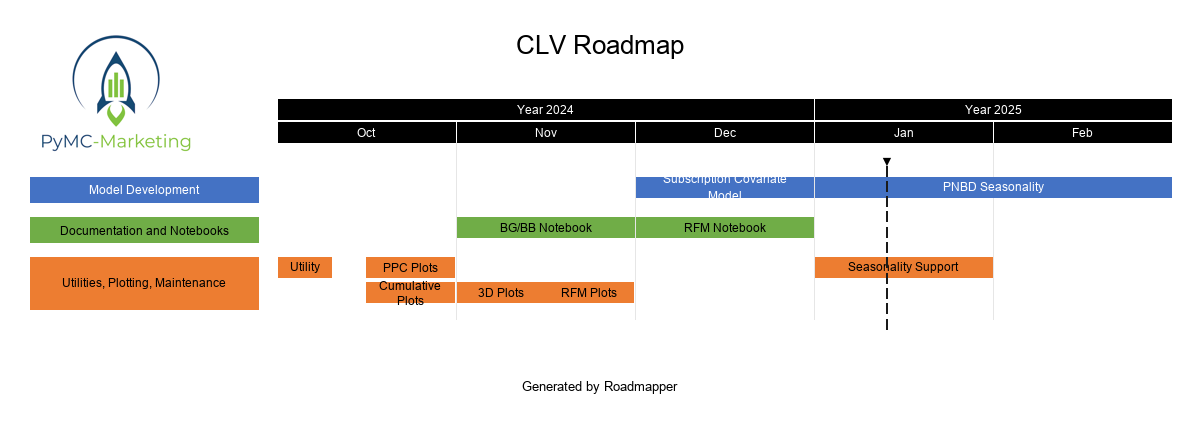
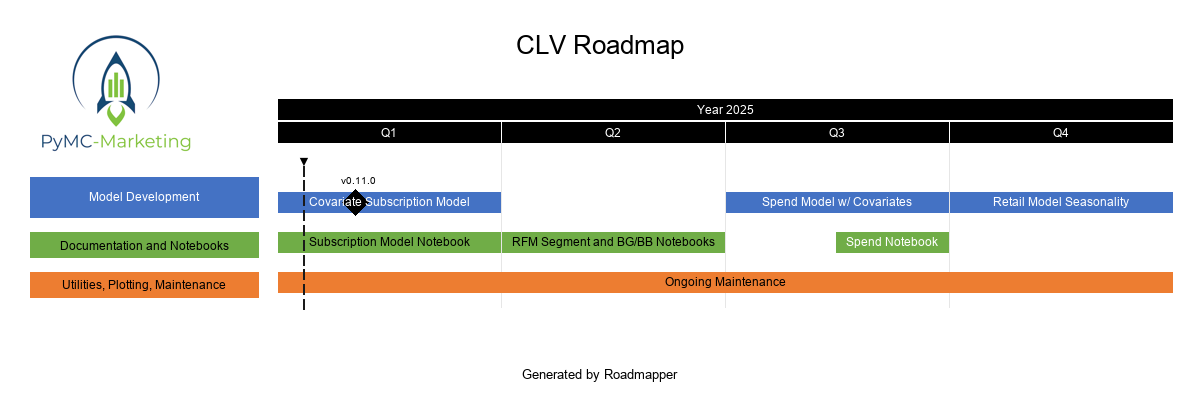
2025 clv roadmap

diff --git a/scripts/clv_roadmap.py b/scripts/clv_roadmap.py
@@ -1,0 +1,118 @@
+from roadmapper.roadmap import Roadmap
+from roadmapper.timelinemode import TimelineMode
+
+# Docs: https://github.com/csgoh/roadmapper
+YEAR = "2025"
+
+# roadmap top-level config
+roadmap = Roadmap(1200, 800)
+roadmap.set_title("CLV Roadmap")
+# roadmap.set_subtitle("FEEDBACK REQUESTED")
+roadmap.set_timeline(TimelineMode.QUARTERLY, start=f"{YEAR}-01-01", number_of_items=4)
+roadmap.add_logo("./docs/source/_static/marketing-logo-light.jpg", "top-left", 172, 125)
+
+doc_color = "#70AD47"  # green
+model_color = "#4472C4"  # navy blue
+util_color = "#ED7D31"  # orange
+
+# Create roadmap swimlanes
+group_model = roadmap.add_group("Model Development", fill_colour=model_color)
+group_doc = roadmap.add_group(
+    "Documentation and Notebooks", fill_colour=doc_color, font_colour="black"
+)
+group_util = roadmap.add_group(
+    "Utilities, Plotting, Maintenance", fill_colour=util_color, font_colour="black"
+)
+
+# add tasks and milestones to modeling swimlane
+tasks_model = group_model.add_task(
+    "Covariate Subscription Model",
+    f"{YEAR}-01-01",
+    f"{YEAR}-03-31",
+    fill_colour=model_color,
+    font_colour="white",
+)
+
+# new release milestones are assigned to specific tasks
+# just add to the task at the top of the roadmap
+tasks_model.add_milestone("v0.11.0", f"{YEAR}-01-31")
+
+tasks_model.add_parallel_task(
+    "Spend Model w/ Covariates",
+    f"{YEAR}-07-01",
+    f"{YEAR}-09-30",
+    fill_colour=model_color,
+    font_colour="white",
+)
+tasks_model.add_parallel_task(
+    "Retail Model Seasonality",
+    f"{YEAR}-10-01",
+    f"{YEAR}-12-31",
+    fill_colour=model_color,
+    font_colour="white",
+)
+
+# add tasks to documentation swimlane
+task_docs = group_doc.add_task(
+    "Subscription Model Notebook",
+    f"{YEAR}-01-01",
+    f"{YEAR}-03-31",
+    fill_colour=doc_color,
+    font_colour="black",
+)
+task_docs.add_parallel_task(
+    "RFM Segment and BG/BB Notebooks",
+    f"{YEAR}-04-01",
+    f"{YEAR}-06-30",
+    fill_colour=doc_color,
+    font_colour="black",
+)
+task_docs.add_parallel_task(
+    "Spend Notebook",
+    f"{YEAR}-08-15",
+    f"{YEAR}-09-30",
+    fill_colour=doc_color,
+    font_colour="white",
+)
+
+# add tasks to utilities swimlane
+task_util = group_util.add_task(
+    "Ongoing Maintenance",
+    f"{YEAR}-01-01",
+    f"{YEAR}-12-31",
+    fill_colour=util_color,
+    font_colour="black",
+)
+
+roadmap.set_footer("Generated by Roadmapper")
+roadmap.draw()
+roadmap.save("./docs/source/_static/clv_roadmap_2025.png")
+
+# this dict is not used to create the roadmap
+# it is just a running list of specific tasks grouped by priority
+task_priority = {
+    "low": [
+        "EG Model",
+        "EG Covar",
+        "sBG Pop",
+        "sBG Covar",
+        "BG PurProb",
+        "BGBB Pred",
+        "logp property",
+        "BG Time Covar",  # 2026
+    ],
+    "med": [
+        "BG Covar",
+        "XR Support",
+        "Input Val",
+        "BGBB Scan",
+        "PNBD Raw Moments",
+        "GG Dist Block",
+    ],
+    "high": [
+        "3d plots",
+        "Spend plots",
+        "Covariate Causality",
+        "Causal Campaign Notebook",
+    ],
+}
